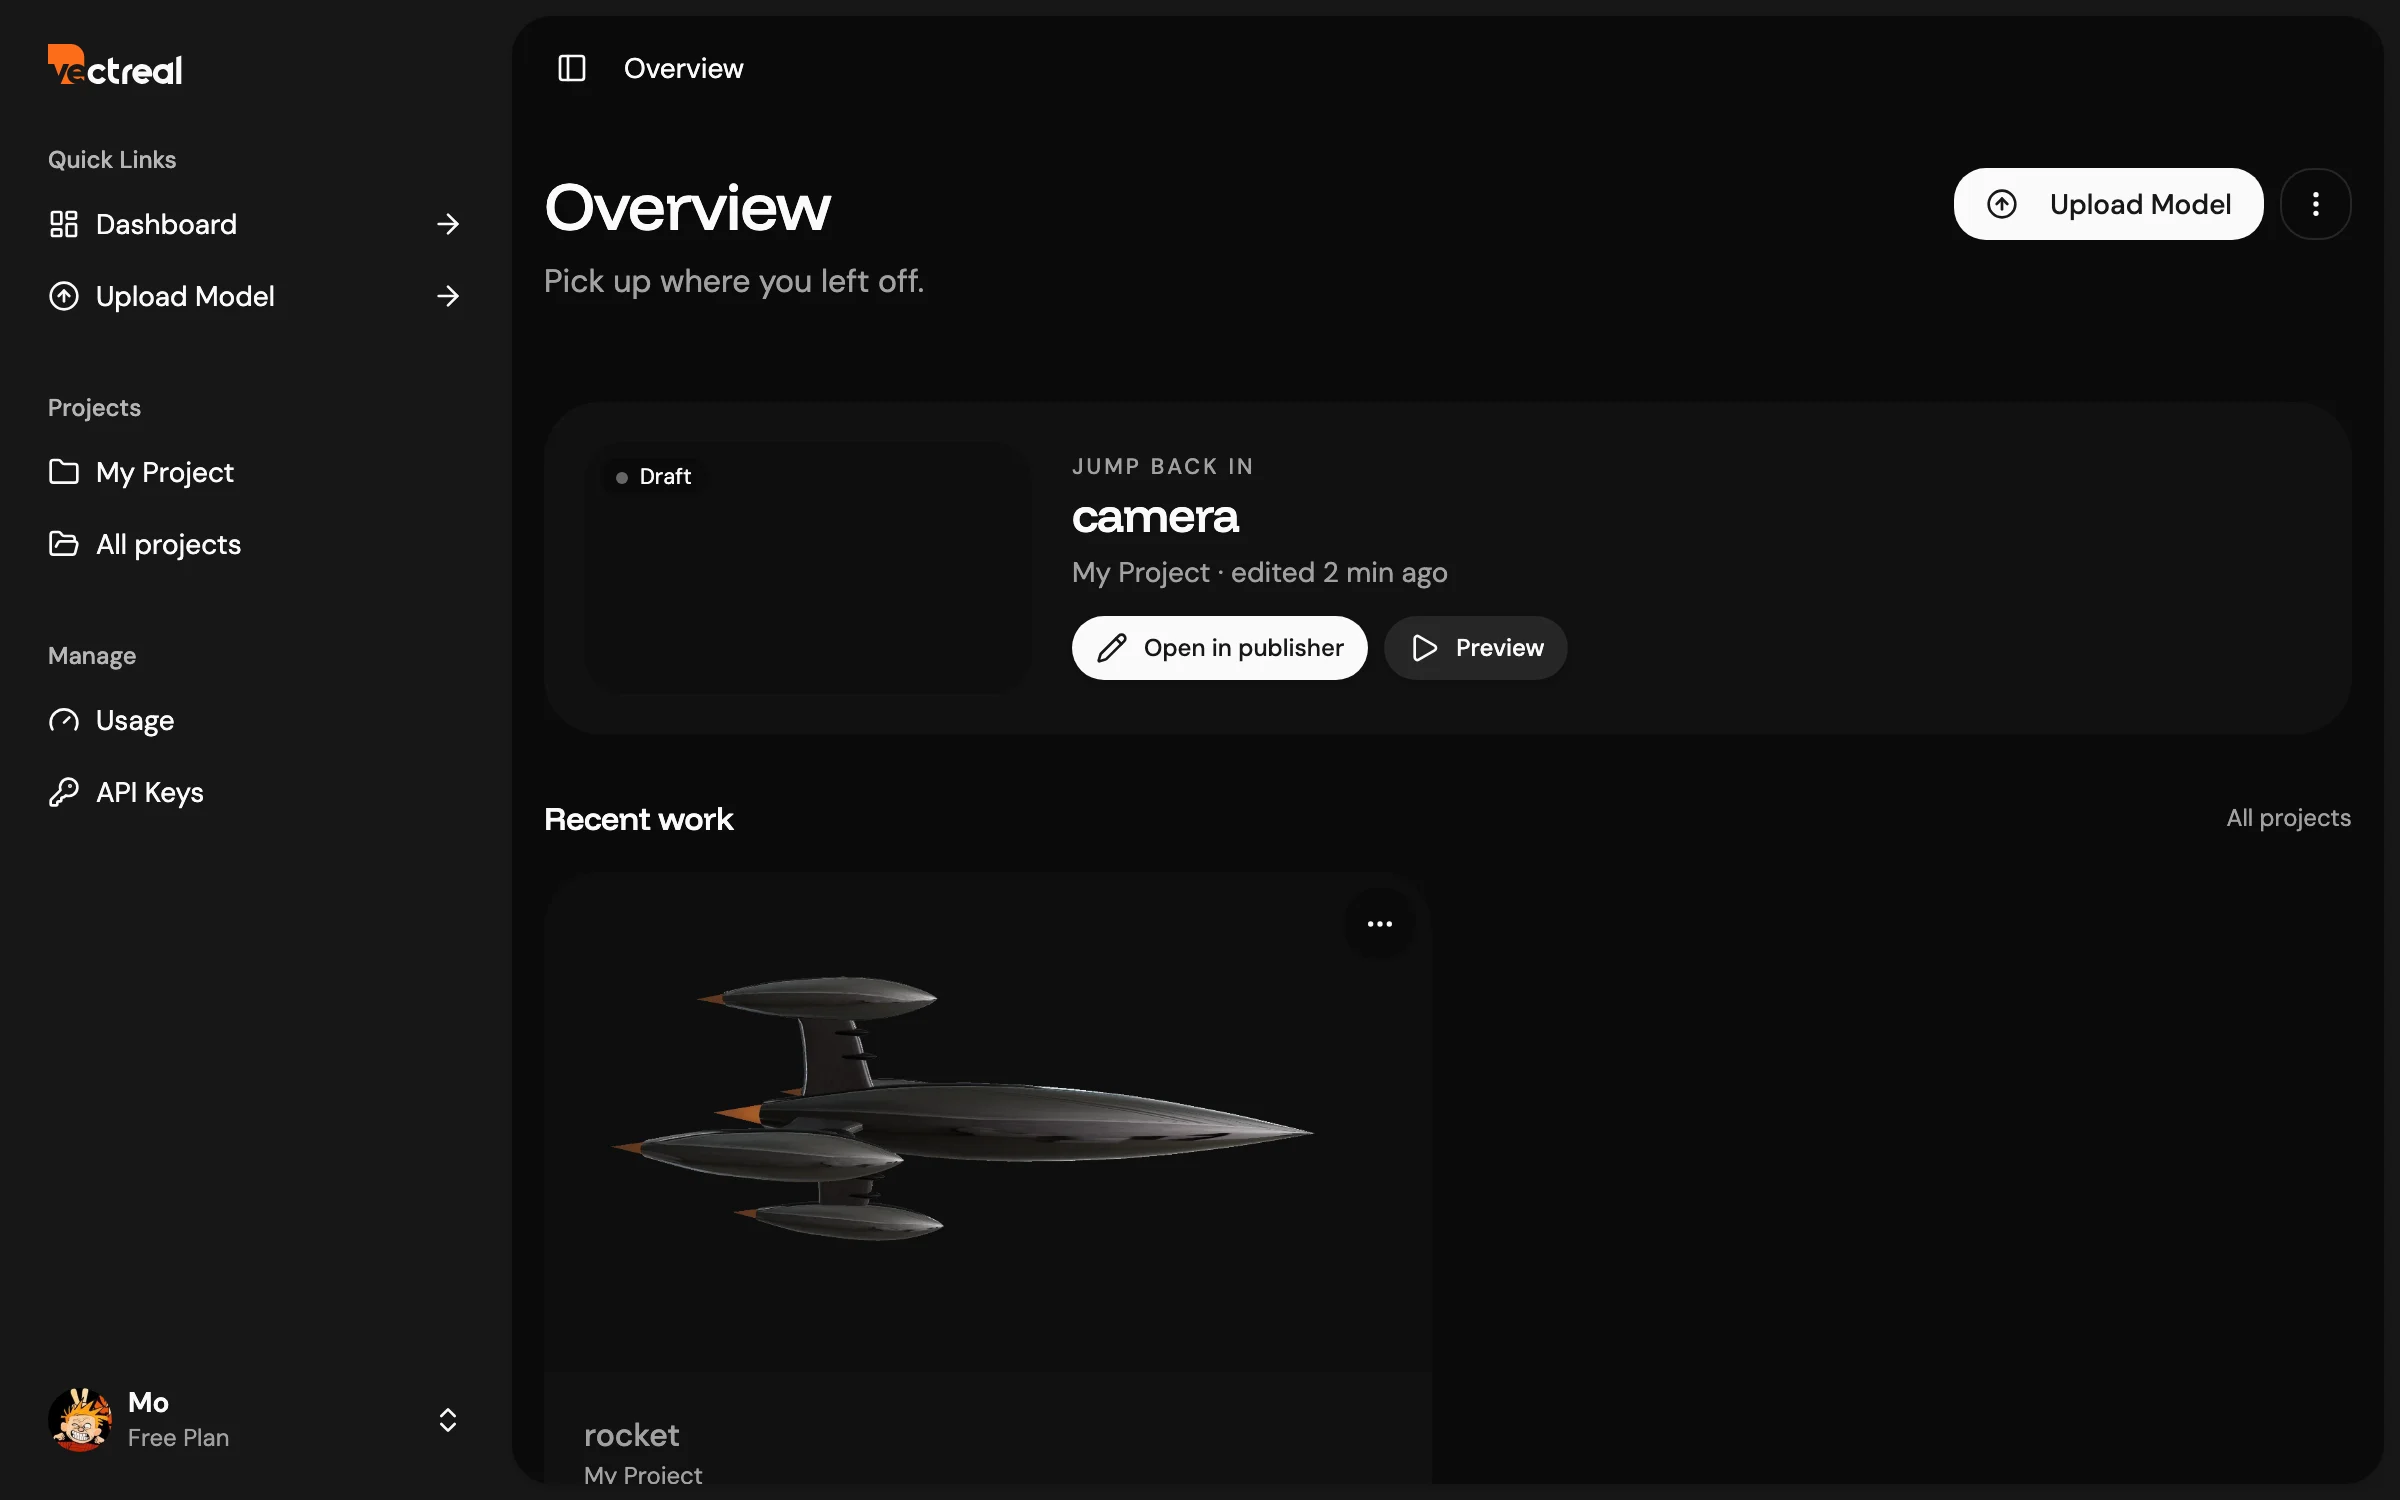
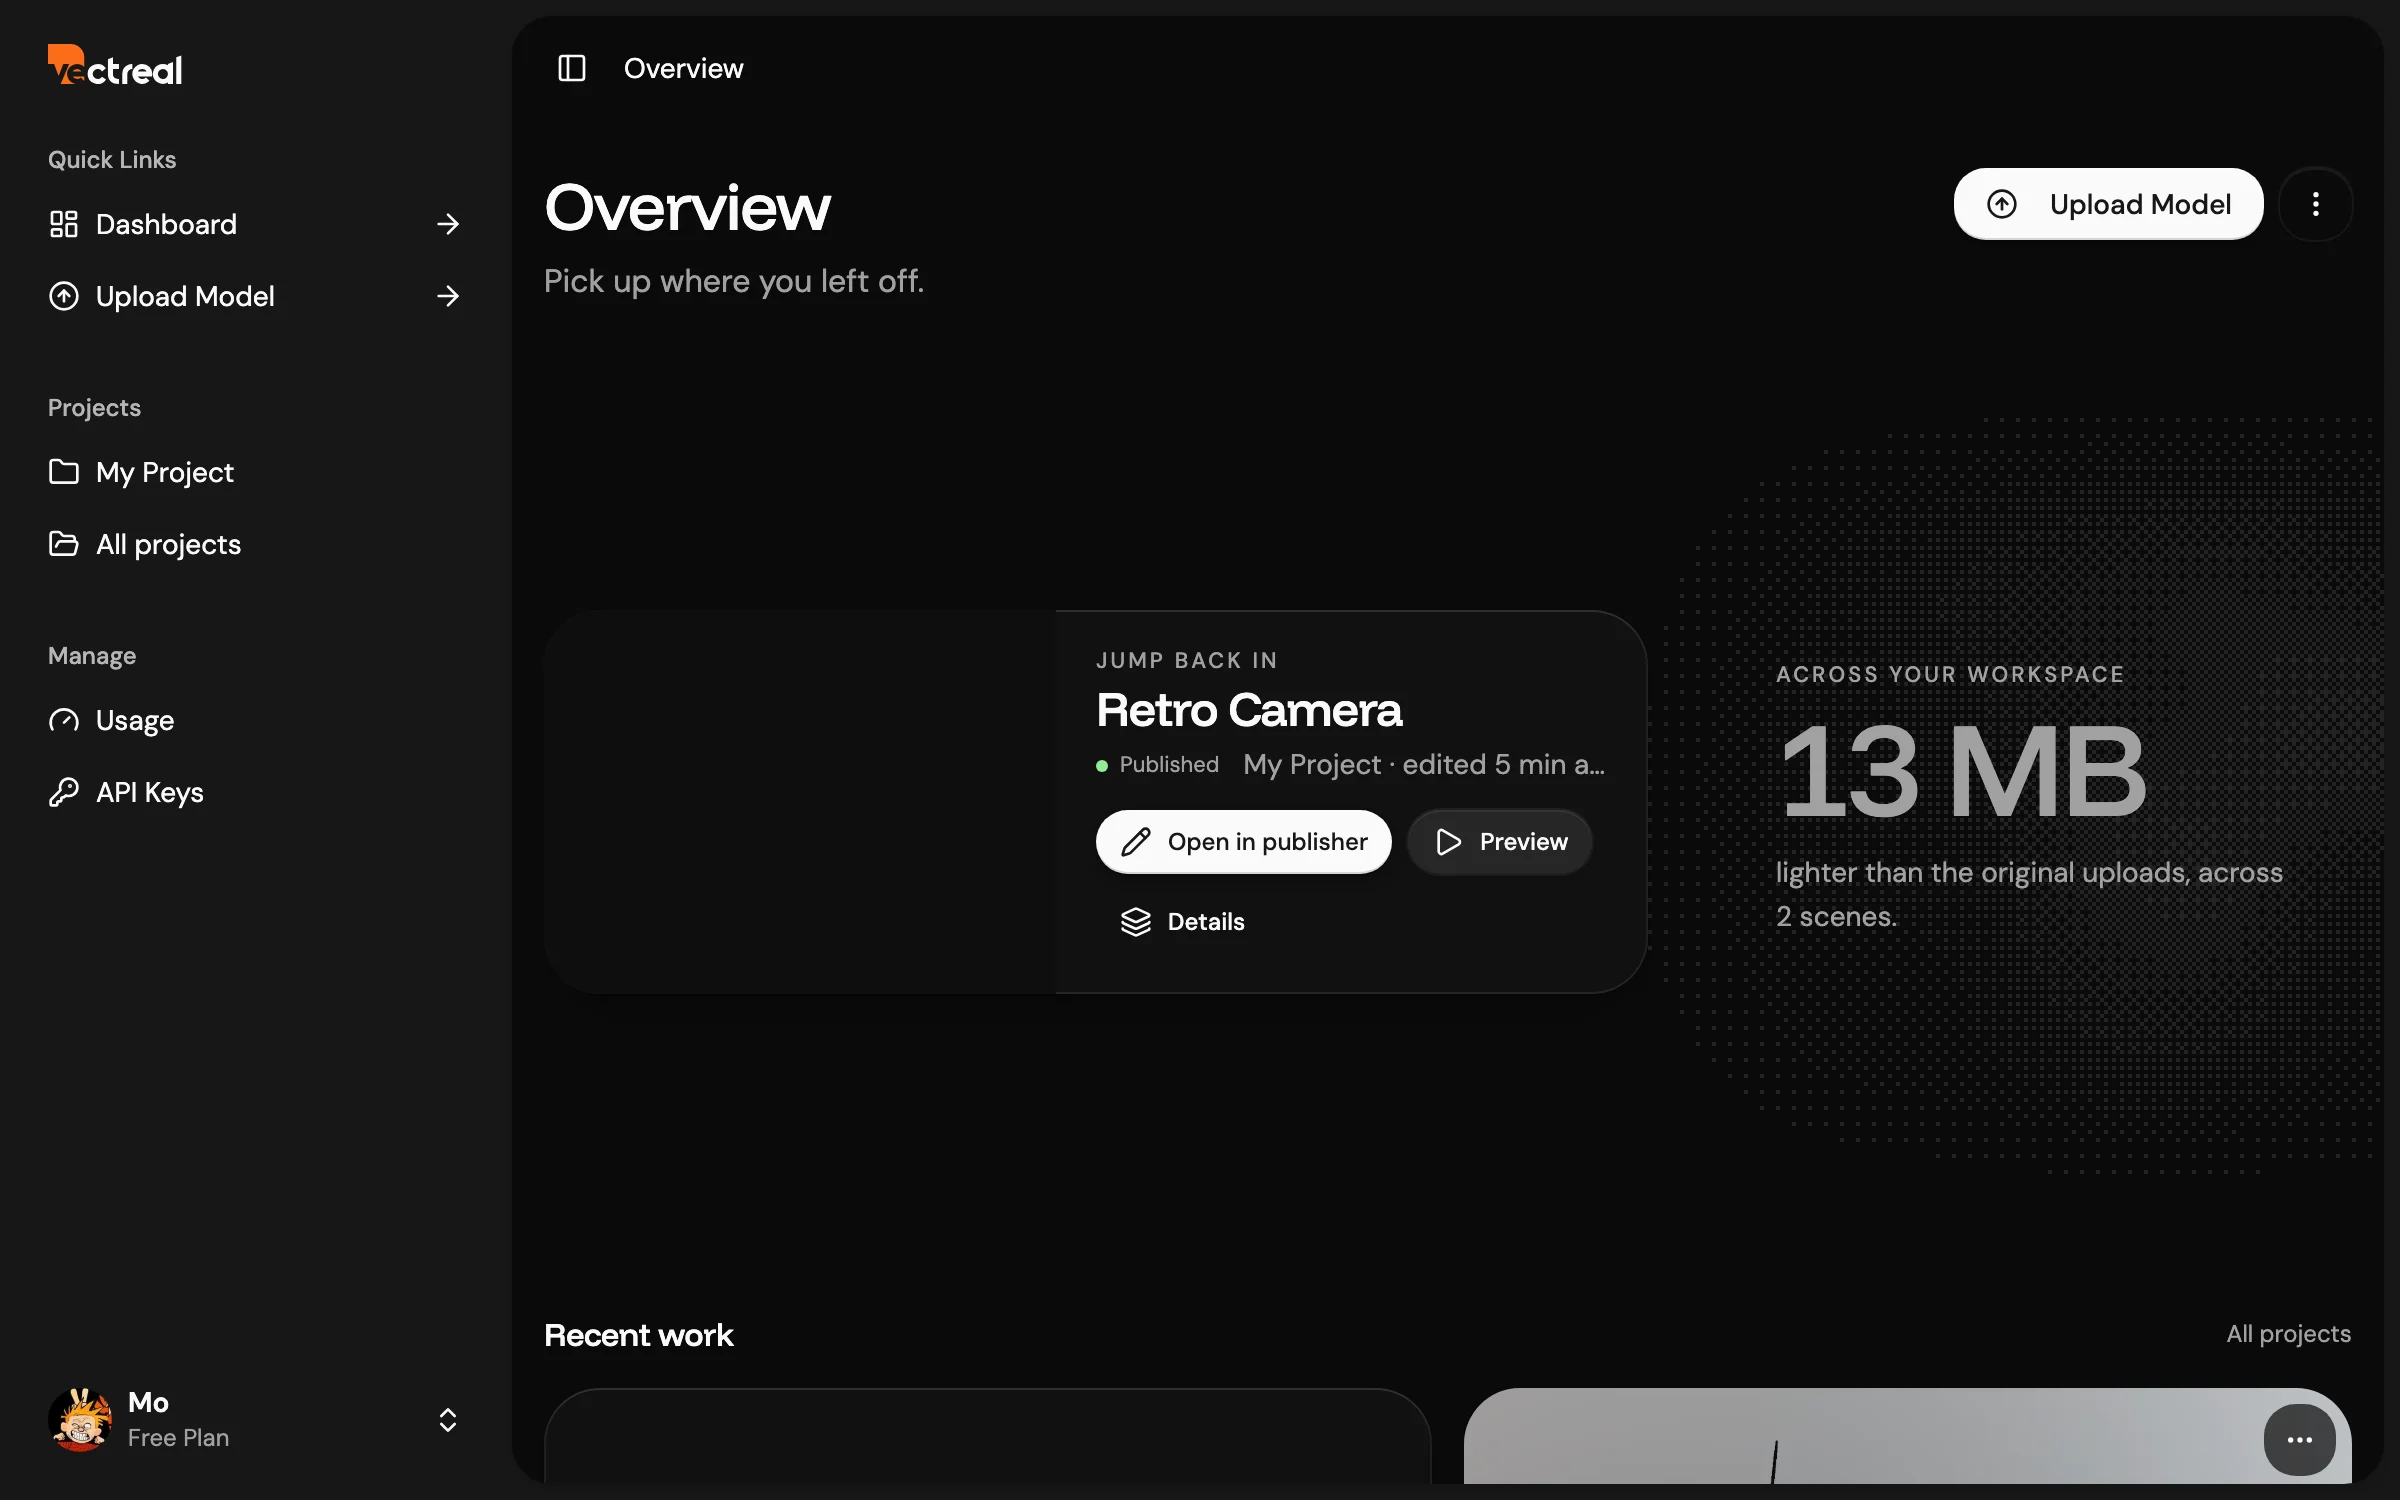
chore(home): recapture the Manage shots on the current dashboard
The capture looked for the featured thumbnail under a wrapper the
overview no longer renders, and the overview draws its workspace fact at
random per visit, so the two themes could show different facts. The
thumbnail is now found as the band's hidden pointer link, and the second
theme reloads until it draws the first theme's fact.

diff --git a/apps/vectreal-platform/scripts/capture-home-product-shots.ts b/apps/vectreal-platform/scripts/capture-home-product-shots.ts
@@ -316,6 +316,9 @@ async function signedInSession(): Promise<Session | null> {
  * work. Its thumbnail is blanked for the shot and its box recorded: the live
  * camera shrinks into it. CAPTURE_MANAGE_PATH pins a different page.
  */
+/** The first theme's workspace fact, which the second theme waits for. */
+let manageFact: string | null = null
+
 async function captureManage(context: BrowserContext, theme: string) {
 	const page = await context.newPage()
 
@@ -323,6 +326,20 @@ async function captureManage(context: BrowserContext, theme: string) {
 		`${BASE_URL}${process.env.CAPTURE_MANAGE_PATH ?? '/dashboard'}`
 	)
 	await page.waitForLoadState('networkidle')
+
+	/*
+	  The overview's workspace fact is drawn at random per visit, and the page
+	  swaps one theme's frame for the other's: reload until this theme shows
+	  the fact the first one did.
+	*/
+	const fact = page.locator('.text-stat').first()
+	for (let attempt = 0; manageFact && attempt < 30; attempt++) {
+		if ((await fact.textContent()) === manageFact) break
+		await page.reload({ waitUntil: 'networkidle' })
+	}
+	if (manageFact && (await fact.textContent()) !== manageFact)
+		throw new Error(`The overview never drew the fact "${manageFact}" again.`)
+	manageFact ??= await fact.textContent()
 
 	/*
 	  The overview features the most recently edited scene under "Jump back in",
@@ -338,8 +355,9 @@ async function captureManage(context: BrowserContext, theme: string) {
 	const card = page
 		.locator('.group\\/card')
 		.filter({ has: page.getByText(name, { exact: true }) })
+	// In the featured band the thumbnail is its pointer shortcut, the one link kept out of the accessibility tree.
 	const thumbnail = (await featured.count())
-		? featured.locator('div.relative > div').first()
+		? featured.locator('a[aria-hidden="true"] > *').first()
 		: (await card.count())
 			? card.first().locator('a > div').first()
 			: null
